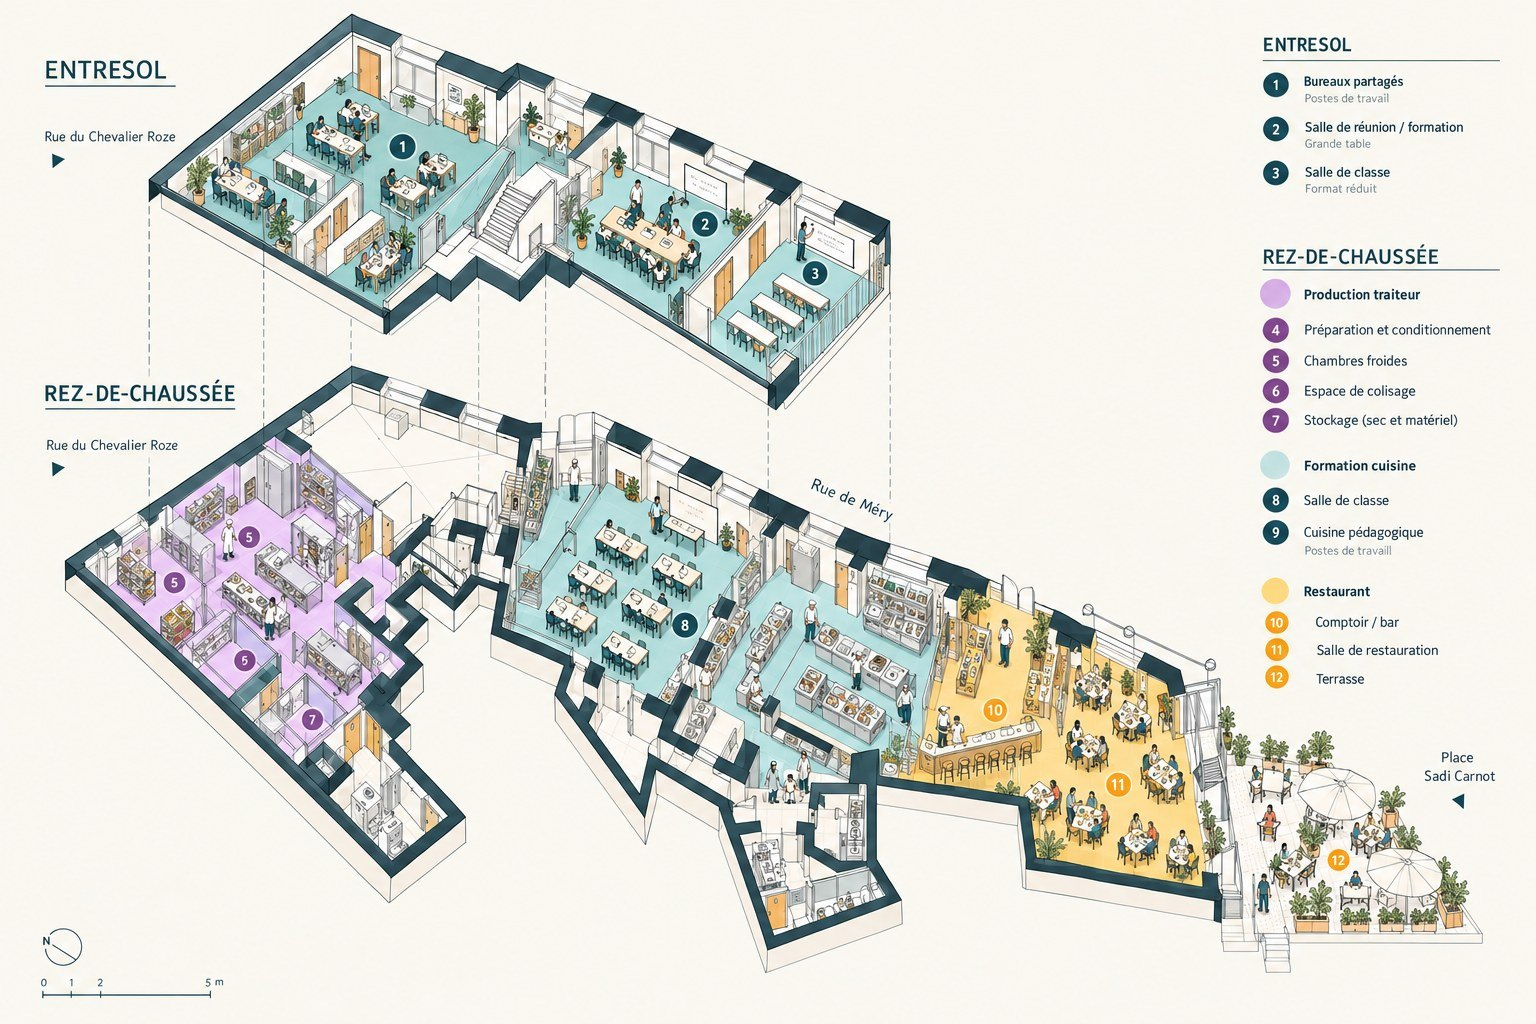
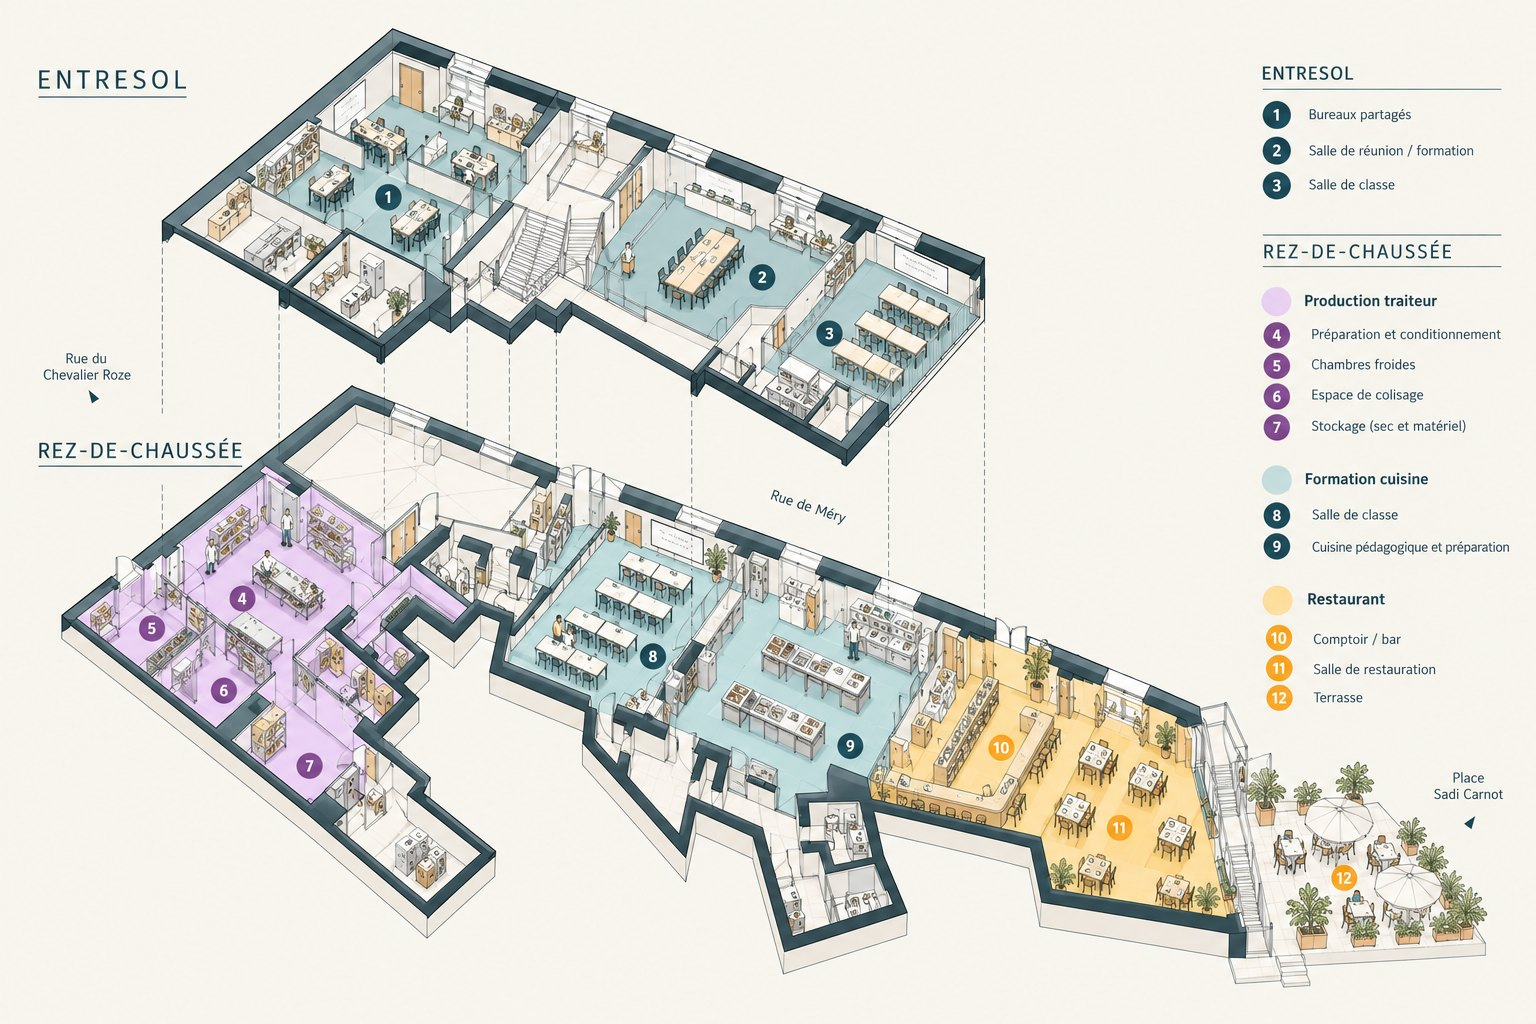
Sadi Carnot : nouveau plan, 12 espaces cliquables (production détaillée en 4 à 7)
Claude-Session: https://claude.ai/code/session_01Arb1xLAi9YkaFDBdwhk4BT

diff --git a/sadi-carnot.html b/sadi-carnot.html
@@ -312,23 +312,7 @@ html{scroll-behavior:smooth;}
         <div style="position:relative;width:100%;aspect-ratio:1536/1024;">
           <img src="/images/sadi-carnot/plan-sadi-carnot.jpg" alt="Plan axonométrique du futur lieu : entresol avec bureaux partagés et salles ; rez-de-chaussée avec production traiteur, formation cuisine et restaurant ouvrant sur la place Sadi-Carnot" style="position:absolute;inset:0;width:100%;height:100%;object-fit:contain;">
           
-            <button type="button" class="spot pulse" aria-pressed="true" aria-label="La salle de restauration" style="position:absolute;left:72.8%;top:76.7%;transform:translate(-50%,-50%) scale(1.25);width:40px;height:40px;border-radius:50%;cursor:pointer;border:3px solid #FEFCF8;background:#FFC100;color:#0D2B30;font-family:inherit;font-size:15px;font-weight:700;display:flex;align-items:center;justify-content:center;opacity:1;box-shadow:0 6px 16px -6px rgba(10,45,51,.6);padding:0;" data-i="0">11</button>
-          
-            <button type="button" class="spot " aria-pressed="false" aria-label="Le comptoir et le bar" style="position:absolute;left:64.7%;top:69.3%;transform:translate(-50%,-50%) scale(1);width:40px;height:40px;border-radius:50%;cursor:pointer;border:3px solid #FEFCF8;background:#FFC100;color:#0D2B30;font-family:inherit;font-size:15px;font-weight:700;display:flex;align-items:center;justify-content:center;opacity:1;box-shadow:0 6px 16px -6px rgba(10,45,51,.6);padding:0;" data-i="1">10</button>
-          
-            <button type="button" class="spot " aria-pressed="false" aria-label="La terrasse" style="position:absolute;left:87.1%;top:84%;transform:translate(-50%,-50%) scale(1);width:40px;height:40px;border-radius:50%;cursor:pointer;border:3px solid #FEFCF8;background:#FFC100;color:#0D2B30;font-family:inherit;font-size:15px;font-weight:700;display:flex;align-items:center;justify-content:center;opacity:1;box-shadow:0 6px 16px -6px rgba(10,45,51,.6);padding:0;" data-i="2">12</button>
-          
-            <button type="button" class="spot " aria-pressed="false" aria-label="La cuisine pédagogique" style="position:absolute;left:54.5%;top:66%;transform:translate(-50%,-50%) scale(1);width:40px;height:40px;border-radius:50%;cursor:pointer;border:3px solid #FEFCF8;background:#217078;color:#FEFCF8;font-family:inherit;font-size:15px;font-weight:700;display:flex;align-items:center;justify-content:center;opacity:.55;box-shadow:0 6px 16px -6px rgba(10,45,51,.6);padding:0;" data-i="3">9</button>
-          
-            <button type="button" class="spot " aria-pressed="false" aria-label="La salle de classe" style="position:absolute;left:44.5%;top:61.1%;transform:translate(-50%,-50%) scale(1);width:40px;height:40px;border-radius:50%;cursor:pointer;border:3px solid #FEFCF8;background:#217078;color:#FEFCF8;font-family:inherit;font-size:15px;font-weight:700;display:flex;align-items:center;justify-content:center;opacity:.55;box-shadow:0 6px 16px -6px rgba(10,45,51,.6);padding:0;" data-i="4">8</button>
-          
-            <button type="button" class="spot " aria-pressed="false" aria-label="La production" style="position:absolute;left:17.5%;top:61.5%;transform:translate(-50%,-50%) scale(1);width:40px;height:40px;border-radius:50%;cursor:pointer;border:3px solid #FEFCF8;background:#7E4590;color:#FEFCF8;font-family:inherit;font-size:15px;font-weight:700;display:flex;align-items:center;justify-content:center;opacity:.55;box-shadow:0 6px 16px -6px rgba(10,45,51,.6);padding:0;" data-i="5">4–7</button>
-          
-            <button type="button" class="spot " aria-pressed="false" aria-label="Les bureaux partagés" style="position:absolute;left:26.2%;top:14.4%;transform:translate(-50%,-50%) scale(1);width:40px;height:40px;border-radius:50%;cursor:pointer;border:3px solid #FEFCF8;background:#0F3C44;color:#FEFCF8;font-family:inherit;font-size:15px;font-weight:700;display:flex;align-items:center;justify-content:center;opacity:.55;box-shadow:0 6px 16px -6px rgba(10,45,51,.6);padding:0;" data-i="6">1</button>
-          
-            <button type="button" class="spot " aria-pressed="false" aria-label="La salle de réunion" style="position:absolute;left:45.9%;top:21.9%;transform:translate(-50%,-50%) scale(1);width:40px;height:40px;border-radius:50%;cursor:pointer;border:3px solid #FEFCF8;background:#0F3C44;color:#FEFCF8;font-family:inherit;font-size:15px;font-weight:700;display:flex;align-items:center;justify-content:center;opacity:.55;box-shadow:0 6px 16px -6px rgba(10,45,51,.6);padding:0;" data-i="7">2</button>
-          
-            <button type="button" class="spot " aria-pressed="false" aria-label="La petite salle de classe" style="position:absolute;left:53%;top:26.7%;transform:translate(-50%,-50%) scale(1);width:40px;height:40px;border-radius:50%;cursor:pointer;border:3px solid #FEFCF8;background:#0F3C44;color:#FEFCF8;font-family:inherit;font-size:15px;font-weight:700;display:flex;align-items:center;justify-content:center;opacity:.55;box-shadow:0 6px 16px -6px rgba(10,45,51,.6);padding:0;" data-i="8">3</button>
+            <button type="button" class="spot pulse" aria-pressed="true" aria-label="La salle de restauration" style="position:absolute;left:72.8%;top:80.9%;transform:translate(-50%,-50%) scale(1.25);width:40px;height:40px;border-radius:50%;cursor:pointer;border:3px solid #FEFCF8;background:#FFC100;color:#0D2B30;font-family:inherit;font-size:15px;font-weight:700;display:flex;align-items:center;justify-content:center;opacity:1;box-shadow:0 6px 16px -6px rgba(10,45,51,.6);padding:0;" data-i="0">11</button><button type="button" class="spot " aria-pressed="false" aria-label="Le comptoir et le bar" style="position:absolute;left:65.2%;top:73%;transform:translate(-50%,-50%) scale(1);width:40px;height:40px;border-radius:50%;cursor:pointer;border:3px solid #FEFCF8;background:#FFC100;color:#0D2B30;font-family:inherit;font-size:15px;font-weight:700;display:flex;align-items:center;justify-content:center;opacity:1;box-shadow:0 6px 16px -6px rgba(10,45,51,.6);padding:0;" data-i="1">10</button><button type="button" class="spot " aria-pressed="false" aria-label="La terrasse" style="position:absolute;left:87.4%;top:85.7%;transform:translate(-50%,-50%) scale(1);width:40px;height:40px;border-radius:50%;cursor:pointer;border:3px solid #FEFCF8;background:#FFC100;color:#0D2B30;font-family:inherit;font-size:15px;font-weight:700;display:flex;align-items:center;justify-content:center;opacity:1;box-shadow:0 6px 16px -6px rgba(10,45,51,.6);padding:0;" data-i="2">12</button><button type="button" class="spot " aria-pressed="false" aria-label="La cuisine pédagogique et de préparation" style="position:absolute;left:55.3%;top:72.8%;transform:translate(-50%,-50%) scale(1);width:40px;height:40px;border-radius:50%;cursor:pointer;border:3px solid #FEFCF8;background:#217078;color:#FEFCF8;font-family:inherit;font-size:15px;font-weight:700;display:flex;align-items:center;justify-content:center;opacity:.55;box-shadow:0 6px 16px -6px rgba(10,45,51,.6);padding:0;" data-i="3">9</button><button type="button" class="spot " aria-pressed="false" aria-label="La salle de classe" style="position:absolute;left:42.4%;top:64.1%;transform:translate(-50%,-50%) scale(1);width:40px;height:40px;border-radius:50%;cursor:pointer;border:3px solid #FEFCF8;background:#217078;color:#FEFCF8;font-family:inherit;font-size:15px;font-weight:700;display:flex;align-items:center;justify-content:center;opacity:.55;box-shadow:0 6px 16px -6px rgba(10,45,51,.6);padding:0;" data-i="4">8</button><button type="button" class="spot " aria-pressed="false" aria-label="Préparation et conditionnement" style="position:absolute;left:15.7%;top:58.5%;transform:translate(-50%,-50%) scale(1);width:40px;height:40px;border-radius:50%;cursor:pointer;border:3px solid #FEFCF8;background:#7E4590;color:#FEFCF8;font-family:inherit;font-size:15px;font-weight:700;display:flex;align-items:center;justify-content:center;opacity:.55;box-shadow:0 6px 16px -6px rgba(10,45,51,.6);padding:0;" data-i="5">4</button><button type="button" class="spot " aria-pressed="false" aria-label="Les chambres froides" style="position:absolute;left:9.9%;top:61.4%;transform:translate(-50%,-50%) scale(1);width:40px;height:40px;border-radius:50%;cursor:pointer;border:3px solid #FEFCF8;background:#7E4590;color:#FEFCF8;font-family:inherit;font-size:15px;font-weight:700;display:flex;align-items:center;justify-content:center;opacity:.55;box-shadow:0 6px 16px -6px rgba(10,45,51,.6);padding:0;" data-i="6">5</button><button type="button" class="spot " aria-pressed="false" aria-label="L’espace de colisage" style="position:absolute;left:14.5%;top:67.4%;transform:translate(-50%,-50%) scale(1);width:40px;height:40px;border-radius:50%;cursor:pointer;border:3px solid #FEFCF8;background:#7E4590;color:#FEFCF8;font-family:inherit;font-size:15px;font-weight:700;display:flex;align-items:center;justify-content:center;opacity:.55;box-shadow:0 6px 16px -6px rgba(10,45,51,.6);padding:0;" data-i="7">6</button><button type="button" class="spot " aria-pressed="false" aria-label="Le stockage" style="position:absolute;left:20.1%;top:74.8%;transform:translate(-50%,-50%) scale(1);width:40px;height:40px;border-radius:50%;cursor:pointer;border:3px solid #FEFCF8;background:#7E4590;color:#FEFCF8;font-family:inherit;font-size:15px;font-weight:700;display:flex;align-items:center;justify-content:center;opacity:.55;box-shadow:0 6px 16px -6px rgba(10,45,51,.6);padding:0;" data-i="8">7</button><button type="button" class="spot " aria-pressed="false" aria-label="Les bureaux partagés" style="position:absolute;left:25.3%;top:19.2%;transform:translate(-50%,-50%) scale(1);width:40px;height:40px;border-radius:50%;cursor:pointer;border:3px solid #FEFCF8;background:#0F3C44;color:#FEFCF8;font-family:inherit;font-size:15px;font-weight:700;display:flex;align-items:center;justify-content:center;opacity:.55;box-shadow:0 6px 16px -6px rgba(10,45,51,.6);padding:0;" data-i="9">1</button><button type="button" class="spot " aria-pressed="false" aria-label="La salle de réunion" style="position:absolute;left:49.6%;top:27.1%;transform:translate(-50%,-50%) scale(1);width:40px;height:40px;border-radius:50%;cursor:pointer;border:3px solid #FEFCF8;background:#0F3C44;color:#FEFCF8;font-family:inherit;font-size:15px;font-weight:700;display:flex;align-items:center;justify-content:center;opacity:.55;box-shadow:0 6px 16px -6px rgba(10,45,51,.6);padding:0;" data-i="10">2</button><button type="button" class="spot " aria-pressed="false" aria-label="La salle de classe" style="position:absolute;left:53.9%;top:32.5%;transform:translate(-50%,-50%) scale(1);width:40px;height:40px;border-radius:50%;cursor:pointer;border:3px solid #FEFCF8;background:#0F3C44;color:#FEFCF8;font-family:inherit;font-size:15px;font-weight:700;display:flex;align-items:center;justify-content:center;opacity:.55;box-shadow:0 6px 16px -6px rgba(10,45,51,.6);padding:0;" data-i="11">3</button>
           
         </div>
       </div>
@@ -492,7 +476,7 @@ html{scroll-behavior:smooth;}
 
 <script>
 (function(){
-var D={"P": {"resto": {"nom": "Restaurant", "c": "#FFC100", "ct": "#0D2B30", "fond": "#FFC100", "texte": "#0D2B30", "filet": "rgba(13,43,48,.25)", "accent": "#0D2B30"}, "forma": {"nom": "Formation cuisine", "c": "#217078", "ct": "#FEFCF8", "fond": "#217078", "texte": "#FEFCF8", "filet": "rgba(254,252,248,.3)", "accent": "#FFD961"}, "prod": {"nom": "Production traiteur", "c": "#7E4590", "ct": "#FEFCF8", "fond": "#7E4590", "texte": "#FEFCF8", "filet": "rgba(254,252,248,.3)", "accent": "#FEFCF8"}, "entre": {"nom": "Entresol", "c": "#0F3C44", "ct": "#FEFCF8", "fond": "#0A2D33", "texte": "#FEFCF8", "filet": "rgba(254,252,248,.25)", "accent": "#FFD961"}}, "spotsData": [{"id": "s11", "pole": "resto", "niveau": "Rez-de-chaussée", "n": "11", "x": 72.8, "y": 76.7, "titre": "La salle de restauration", "texte2": "Le restaurant populaire, ouvert à tout le quartier. Derrière le passe, des parcours d’insertion en cuisine et en salle.", "chiffre": "35 000+", "legende": "convives par an, 11 services par semaine"}, {"id": "s10", "pole": "resto", "niveau": "Rez-de-chaussée", "n": "10", "x": 64.7, "y": 69.3, "titre": "Le comptoir et le bar", "texte2": "Le cœur du service, ouvert sur la salle. Un poste où l’on se forme aussi, au bar comme au service.", "chiffre": "", "legende": ""}, {"id": "s12", "pole": "resto", "niveau": "Rez-de-chaussée", "n": "12", "x": 87.1, "y": 84, "titre": "La terrasse", "texte2": "Sur la place Sadi-Carnot, à la croisée de Belsunce, du Vieux-Port, du Panier et de la Joliette.", "chiffre": "140", "legende": "couverts, salle et terrasse"}, {"id": "s9", "pole": "forma", "niveau": "Rez-de-chaussée", "n": "9", "x": 54.5, "y": 66, "titre": "La cuisine pédagogique", "texte2": "Des postes de travail pour apprendre les gestes du métier, au plus près du service réel.", "chiffre": "50", "legende": "personnes en formation chaque année à l’Académie Festin"}, {"id": "s8", "pole": "forma", "niveau": "Rez-de-chaussée", "n": "8", "x": 44.5, "y": 61.1, "titre": "La salle de classe", "texte2": "La théorie, à deux pas des fourneaux. Le premier plateau technique de formation culinaire en centre-ville.", "chiffre": "", "legende": ""}, {"id": "sp", "pole": "prod", "niveau": "Rez-de-chaussée", "n": "4–7", "x": 17.5, "y": 61.5, "titre": "La production", "texte2": "Préparation et conditionnement, chambres froides, espace de colisage et stockage : la cuisine de production du lieu.", "chiffre": "", "legende": ""}, {"id": "s1", "pole": "entre", "niveau": "Entresol", "n": "1", "x": 26.2, "y": 14.4, "titre": "Les bureaux partagés", "texte2": "Des postes de travail pour les acteurs engagés de l’alimentation durable.", "chiffre": "200 m²", "legende": "de pôle de travail partagé"}, {"id": "s2", "pole": "entre", "niveau": "Entresol", "n": "2", "x": 45.9, "y": 21.9, "titre": "La salle de réunion", "texte2": "Une grande table pour les réunions, les formations et les temps collectifs.", "chiffre": "", "legende": ""}, {"id": "s3", "pole": "entre", "niveau": "Entresol", "n": "3", "x": 53, "y": 26.7, "titre": "La petite salle de classe", "texte2": "Un format réduit, pour les cours en petit groupe.", "chiffre": "", "legende": ""}], "faqData": [{"q": "Investir ou donner : quelle différence ?", "a": "Investir avec Lita, c’est devenir actionnaire de Maison Festin, avec un risque de perte en capital sur 5 à 7 ans : c’est un investissement, pas un don. Donner, c’est soutenir directement les parcours d’insertion de l’association, sans contrepartie financière."}, {"q": "Festin est-elle une entreprise ?", "a": "Non. Festin est un groupe associatif non lucratif d’intérêt général. Ses activités économiques sont portées par des filiales dont les résultats financent l’insertion."}, {"q": "À quoi servira le lieu ?", "a": "Il réunira un restaurant de cuisine populaire, l’Académie Festin, une cuisine pour l’aide alimentaire et un pôle partagé pour les acteurs de l’alimentation durable."}, {"q": "Quand le lieu ouvrira-t-il ?", "a": "L’ouverture est prévue en 2027, place Sadi-Carnot, à Marseille."}, {"q": "Puis-je faire les deux ?", "a": "Oui. Les deux gestes sont indépendants : vous pouvez investir avec Lita et faire un don à l’association."}]};
+var D={"P": {"resto": {"nom": "Restaurant", "c": "#FFC100", "ct": "#0D2B30", "fond": "#FFC100", "texte": "#0D2B30", "filet": "rgba(13,43,48,.25)", "accent": "#0D2B30"}, "forma": {"nom": "Formation cuisine", "c": "#217078", "ct": "#FEFCF8", "fond": "#217078", "texte": "#FEFCF8", "filet": "rgba(254,252,248,.3)", "accent": "#FFD961"}, "prod": {"nom": "Production traiteur", "c": "#7E4590", "ct": "#FEFCF8", "fond": "#7E4590", "texte": "#FEFCF8", "filet": "rgba(254,252,248,.3)", "accent": "#FEFCF8"}, "entre": {"nom": "Entresol", "c": "#0F3C44", "ct": "#FEFCF8", "fond": "#0A2D33", "texte": "#FEFCF8", "filet": "rgba(254,252,248,.25)", "accent": "#FFD961"}}, "spotsData": [{"id": "s11", "pole": "resto", "niveau": "Rez-de-chaussée", "n": "11", "x": 72.8, "y": 80.9, "titre": "La salle de restauration", "texte2": "Le restaurant populaire, ouvert à tout le quartier. Derrière le passe, des parcours d’insertion en cuisine et en salle.", "chiffre": "35 000+", "legende": "convives par an, 11 services par semaine"}, {"id": "s10", "pole": "resto", "niveau": "Rez-de-chaussée", "n": "10", "x": 65.2, "y": 73, "titre": "Le comptoir et le bar", "texte2": "Le cœur du service, ouvert sur la salle. Un poste où l’on se forme aussi, au bar comme au service.", "chiffre": "", "legende": ""}, {"id": "s12", "pole": "resto", "niveau": "Rez-de-chaussée", "n": "12", "x": 87.4, "y": 85.7, "titre": "La terrasse", "texte2": "Sur la place Sadi-Carnot, à la croisée de Belsunce, du Vieux-Port, du Panier et de la Joliette.", "chiffre": "140", "legende": "couverts, salle et terrasse"}, {"id": "s9", "pole": "forma", "niveau": "Rez-de-chaussée", "n": "9", "x": 55.3, "y": 72.8, "titre": "La cuisine pédagogique et de préparation", "texte2": "Des postes de travail pour apprendre les gestes du métier, au plus près du service réel.", "chiffre": "50", "legende": "personnes en formation chaque année à l’Académie Festin"}, {"id": "s8", "pole": "forma", "niveau": "Rez-de-chaussée", "n": "8", "x": 42.4, "y": 64.1, "titre": "La salle de classe", "texte2": "La théorie, à deux pas des fourneaux. Le premier plateau technique de formation culinaire en centre-ville.", "chiffre": "", "legende": ""}, {"id": "s4", "pole": "prod", "niveau": "Rez-de-chaussée", "n": "4", "x": 15.7, "y": 58.5, "titre": "Préparation et conditionnement", "texte2": "Les repas y sont préparés puis conditionnés.", "chiffre": "", "legende": ""}, {"id": "s5", "pole": "prod", "niveau": "Rez-de-chaussée", "n": "5", "x": 9.9, "y": 61.4, "titre": "Les chambres froides", "texte2": "Pour conserver les produits frais.", "chiffre": "", "legende": ""}, {"id": "s6", "pole": "prod", "niveau": "Rez-de-chaussée", "n": "6", "x": 14.5, "y": 67.4, "titre": "L’espace de colisage", "texte2": "Les commandes y sont préparées avant de partir.", "chiffre": "", "legende": ""}, {"id": "s7", "pole": "prod", "niveau": "Rez-de-chaussée", "n": "7", "x": 20.1, "y": 74.8, "titre": "Le stockage", "texte2": "Produits secs et matériel.", "chiffre": "", "legende": ""}, {"id": "s1", "pole": "entre", "niveau": "Entresol", "n": "1", "x": 25.3, "y": 19.2, "titre": "Les bureaux partagés", "texte2": "Des postes de travail pour les acteurs engagés de l’alimentation durable.", "chiffre": "200 m²", "legende": "de pôle de travail partagé"}, {"id": "s2", "pole": "entre", "niveau": "Entresol", "n": "2", "x": 49.6, "y": 27.1, "titre": "La salle de réunion", "texte2": "Une grande table pour les réunions, les formations et les temps collectifs.", "chiffre": "", "legende": ""}, {"id": "s3", "pole": "entre", "niveau": "Entresol", "n": "3", "x": 53.9, "y": 32.5, "titre": "La salle de classe", "texte2": "Pour les cours en petit groupe.", "chiffre": "", "legende": ""}], "faqData": [{"q": "Investir ou donner : quelle différence ?", "a": "Investir avec Lita, c’est devenir actionnaire de Maison Festin, avec un risque de perte en capital sur 5 à 7 ans : c’est un investissement, pas un don. Donner, c’est soutenir directement les parcours d’insertion de l’association, sans contrepartie financière."}, {"q": "Festin est-elle une entreprise ?", "a": "Non. Festin est un groupe associatif non lucratif d’intérêt général. Ses activités économiques sont portées par des filiales dont les résultats financent l’insertion."}, {"q": "À quoi servira le lieu ?", "a": "Il réunira un restaurant de cuisine populaire, l’Académie Festin, une cuisine pour l’aide alimentaire et un pôle partagé pour les acteurs de l’alimentation durable."}, {"q": "Quand le lieu ouvrira-t-il ?", "a": "L’ouverture est prévue en 2027, place Sadi-Carnot, à Marseille."}, {"q": "Puis-je faire les deux ?", "a": "Oui. Les deux gestes sont indépendants : vous pouvez investir avec Lita et faire un don à l’association."}]};
 var P=D.P,S=D.spotsData;
 // Montants du don
 var amts=[20,50,100,'libre'];
